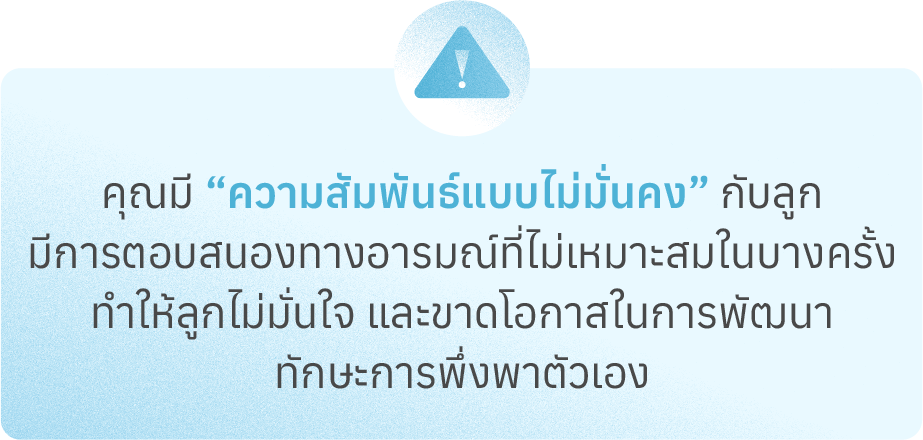
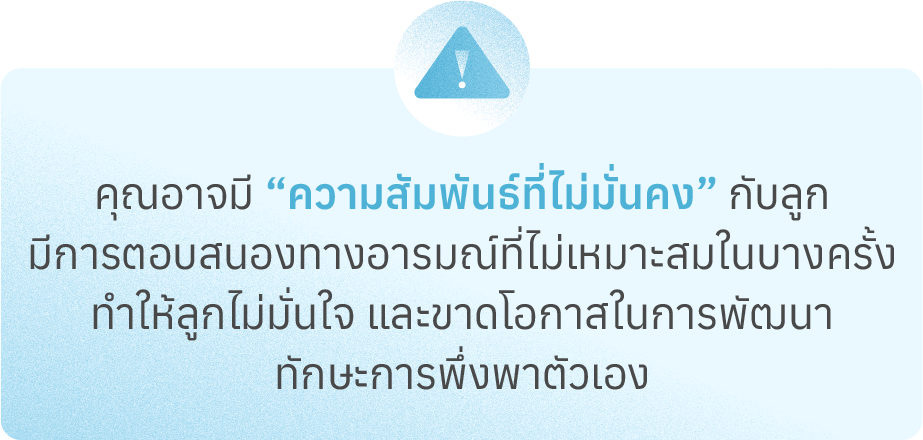
สไลด์17,18,23

diff --git a/index.html b/index.html
@@ -851,7 +851,7 @@
                         <span id="sumquiz"></span>/7
                     </div> 
                     <div>
-                        <img class="page13-sizepic" src="./img/homepage/page13/prince.png">
+                        <img class="page13-sizepic" src="./img/homepage/quiz/prince.png">
                     </div>
                 </div>
                 <div id="answerquizhigh">
@@ -976,7 +976,7 @@
      <!-- homepage map end-->
 
      <!-- chap1 page1 start -->
-     <div onclick="openOverlay('.overlayto_chap1-2')" class="overlay overlayto_chap1-1 overlay-slidedown_overlayto_chap1-1">
+     <div class="overlay overlayto_chap1-1 overlay-slidedown_overlayto_chap1-1">
         <div class="fade-step-page fade-800 chap1-page1-bg">
            <div class="fade-step-page chap1-page1-cloud fade-1000 ">
                 <div  class="fade-step-page txtchap1-page1 fade-2500" >
@@ -984,7 +984,10 @@
                     ก็พบเข้ากับต้นไม้ใหญ่ที่มี<br>
                     <span class="txtpink">รังนกเล็ก ๆ วางอยู่บนต้นไม้</span>
                 </div>
-                <img class="fade-step-page chap1-page4-nest fade-1500" src="./img/chapter1/page1/nest.png">
+                <div  class="fade-step-page chap1-page4-nest fade-1500" style="width: 100%; height: 30%;  background-size: cover; background-image: url(./img/chapter1/page1/egg.png); display: flex; align-items: center; justify-content: center;">
+                    <div onclick="openOverlay('.overlayto_chap1-2')" style="height: 100px; width: 100px; "></div>
+                </div>       
+                <!-- <img class="fade-step-page chap1-page4-nest fade-1500" src="./img/chapter1/page1/egg.png"> -->
                 <img  class="fade-step-page chap1-page4-fam fade-zoom fade-1500" src="./img/chapter1/page1/family.png">
            </div>
         </div>
@@ -2931,7 +2934,7 @@
     
             $('#answerquizhigh img, #answerquizlow img').hide();
     
-            if (total >= 6) {
+            if (total >= 6 && total <= 7) {
                 $('#answerquizhigh img').show();
             } else {
                 $('#answerquizlow img').show();

diff --git a/littlemind_css.css b/littlemind_css.css
@@ -5423,9 +5423,10 @@ height: 45px;
             height: 100%;
             background-repeat: round;
             background-size: contain;
+            background-position-y: 80px;
         }
         .chap1-page1-cloud{
-            background-image: url(./img/chapter1/page1/cloud.png);
+            /* background-image: url(./img/chapter1/page1/cloud.png); */
             width: 100%;
             height: 100%;
             position: absolute;
@@ -5442,7 +5443,7 @@ height: 45px;
             font-size: var(--text16);
             text-align: center;
             position: absolute;
-            top: 100px;
+            top: 50px;
         }
         .chap1-page4-nest{
             width: 100%;
@@ -5451,8 +5452,8 @@ height: 45px;
             /* height: 100%; */
         }
         .chap1-page4-fam{
-            width: 70%;
-            height: 300px;
+            width: 80vw;
+            height: 80vw;    
             margin-bottom: 50px;
         }
     
@@ -6590,9 +6591,9 @@ height: 45px;
         padding: 50px;
     }
     .chap1-page4-fam {
-        width: 60%;
-        height: 200px;
-        margin-bottom: -21px;
+        /* width: 60%;
+        height: 200px; */
+        margin-bottom: 70px;
       
       
     }
@@ -6600,6 +6601,15 @@ height: 45px;
         height: 60px;
         color: red;
     }
+    .footerpage14{
+        height: 60px;
+        color: red;
+    }
+    .footechap1-page3{
+        height: 60px;
+        color: red;
+    }
+
     .box-quizpage {
         display: flex;
         background-color: #E9F9FF;
@@ -6630,9 +6640,6 @@ height: 45px;
     .chap1-page4-bgcontent {
         height: 340px;
         background-color: red;
-    }
-    .chap1-page4-nest{
-        width: 80%;
     }
     .chap1-page4{
         height: calc(100vh - 60px);
